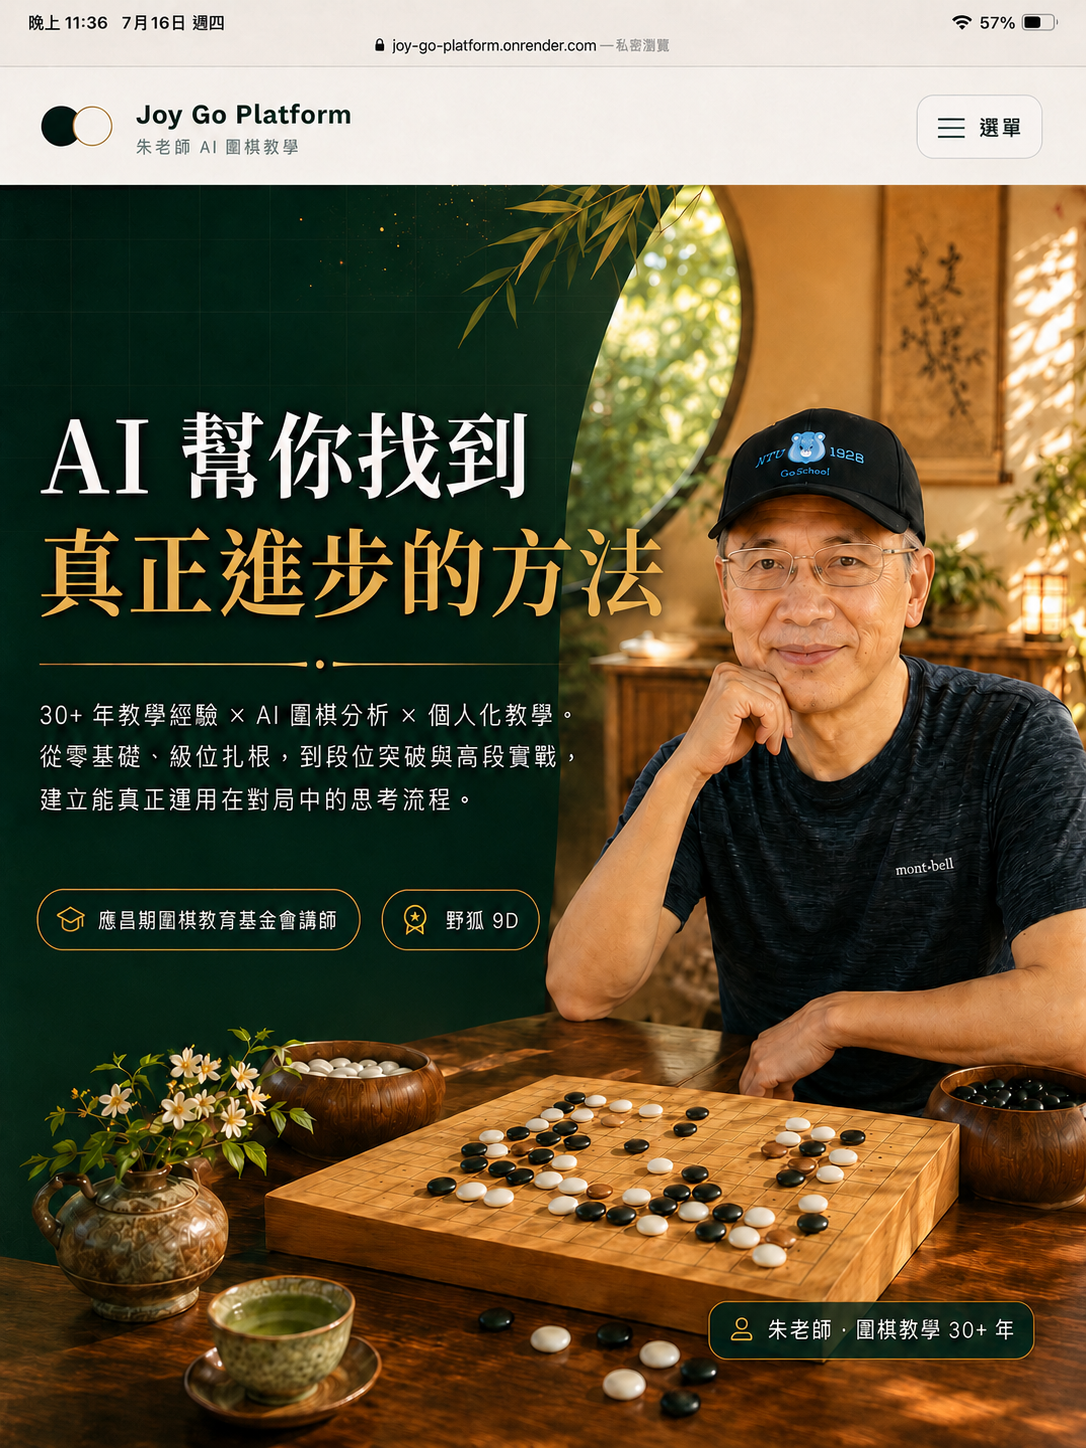
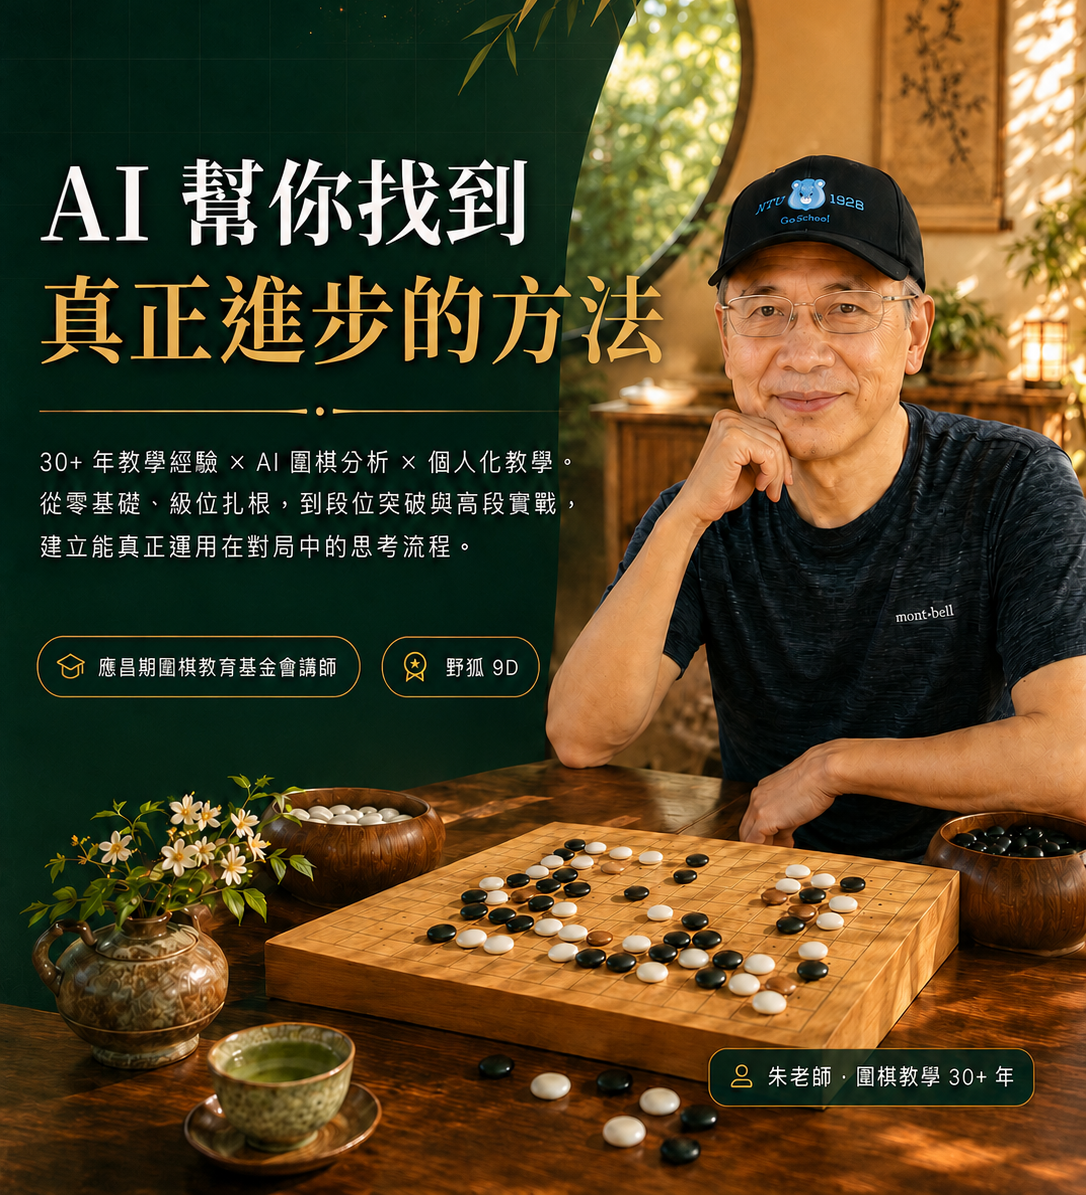
Add files via upload

diff --git a/index.html b/index.html
@@ -9,7 +9,7 @@
   <meta property="og:description" content="30+ 年教學經驗 × AI 圍棋分析 × 個人化教學">
   <meta property="og:image" content="hero-main.png">
   <meta property="og:type" content="website">
-  <title>朱老師 AI 圍棋教學平台｜Joy Go Platform Build 010.6</title>
+  <title>朱老師 AI 圍棋教學平台｜Joy Go Platform Build 010.7</title>
   <link rel="preconnect" href="https://fonts.googleapis.com">
   <link rel="preconnect" href="https://fonts.gstatic.com" crossorigin>
   <link href="https://fonts.googleapis.com/css2?family=Noto+Sans+TC:wght@400;500;700;900&family=Noto+Serif+TC:wght@600;700;900&display=swap" rel="stylesheet">
@@ -34,6 +34,7 @@
         <a href="#courses">課程</a>
         <a href="#events">活動</a>
         <a href="#contact">聯絡</a>
+        <a class="nav-register" href="#register">立即報名</a>
       </nav>
 
       <button id="menuButton" class="menu-button" type="button" aria-label="開啟選單" aria-expanded="false" aria-controls="mobileDrawer">
@@ -61,6 +62,7 @@
       <a href="#courses">課程</a>
       <a href="#events">活動</a>
       <a href="#contact">聯絡</a>
+      <a class="drawer-register" href="#register">立即報名</a>
     </nav>
     <div class="drawer-contact">
       <span>電話洽詢</span>
@@ -214,6 +216,43 @@
       </div>
     </section>
 
+    <section id="register" class="section register-section">
+      <div class="container register-grid">
+        <div>
+          <p class="section-label">REGISTER</p>
+          <h2>課程報名與 LINE 洽詢</h2>
+          <p>填寫簡單資料後，可直接產生報名內容，再用 LINE、簡訊或複製文字傳給朱老師。</p>
+          <div class="register-direct">
+            <a href="tel:0931399910">電話 0931-399-910</a>
+            <a href="sms:0931399910">傳送簡訊</a>
+          </div>
+        </div>
+        <form id="registerForm" class="register-form">
+          <label>姓名<input id="regName" type="text" placeholder="請輸入姓名" required></label>
+          <label>聯絡電話<input id="regPhone" type="tel" inputmode="tel" placeholder="例如：0912-345-678" required></label>
+          <label>目前棋力
+            <select id="regLevel" required>
+              <option value="">請選擇</option>
+              <option>完全初學</option><option>級位</option><option>1～3 段</option><option>4～6 段</option><option>高段</option>
+            </select>
+          </label>
+          <label>課程需求
+            <select id="regCourse" required>
+              <option value="">請選擇</option>
+              <option>初學啟蒙課程</option><option>棋力突破課程</option><option>AI 高段進階指導</option><option>一對一棋力診斷</option><option>棋聚或講座</option>
+            </select>
+          </label>
+          <label class="full">其他需求<textarea id="regNote" rows="4" placeholder="例如：希望週六下午上課"></textarea></label>
+          <div class="register-actions full">
+            <button id="copyRegister" type="button">複製報名內容</button>
+            <a id="lineRegister" href="#">LINE 傳送</a>
+            <a id="smsRegister" href="sms:0931399910">簡訊傳送</a>
+          </div>
+          <p id="registerStatus" class="register-status full" aria-live="polite"></p>
+        </form>
+      </div>
+    </section>
+
     <section id="contact" class="section contact-section">
       <div class="container contact-grid">
         <div>
@@ -230,6 +269,17 @@
       </div>
     </section>
   </main>
+
+  <div class="quick-actions" aria-label="快速聯絡">
+    <a class="quick-phone" href="tel:0931399910">電話</a>
+    <a class="quick-line" href="#register">LINE</a>
+    <a class="quick-register" href="#register">報名</a>
+  </div>
+  <div class="mobile-action-bar">
+    <a href="tel:0931399910">電話</a>
+    <a href="#register">LINE</a>
+    <a href="#register">立即報名</a>
+  </div>
 
   <button id="backToTop" class="back-to-top" type="button" aria-label="回到頁首">↑</button>
 
@@ -249,7 +299,7 @@
       </div>
       <div>
         <span>網站版本</span>
-        <p>Build 010.6</p>
+        <p>Build 010.7</p>
       </div>
     </div>
     <div class="container copyright">© <span id="year"></span> 朱老師 AI 圍棋教學平台</div>

diff --git a/styles.css b/styles.css
@@ -215,3 +215,56 @@ button, input, select, textarea { font: inherit; }
   .teacher-points span { padding: 16px 18px; }
   .back-to-top { right: 16px; bottom: 16px; }
 }
+
+/* Build 010.7 usability restoration */
+.nav-register {
+  padding: 12px 18px;
+  border-radius: 999px;
+  background: var(--green-900);
+  color: #fff;
+}
+.nav-register::after { display: none; }
+.drawer-register { background: var(--green-900) !important; color: #fff; text-align: center; }
+.hero-image-wrap { max-height: none; }
+.hero-image { width: 100%; object-fit: cover; object-position: center top; }
+.register-section { background: linear-gradient(180deg, #f4efe6 0%, #fbfaf7 100%); }
+.register-grid { display: grid; grid-template-columns: .75fr 1.25fr; gap: 34px; align-items: start; }
+.register-grid h2 { margin: 0 0 16px; font-family: "Noto Serif TC", serif; font-size: clamp(2rem,3vw,3rem); }
+.register-grid > div > p { color: #5d6a63; line-height: 1.9; }
+.register-direct { display: grid; gap: 12px; margin-top: 24px; }
+.register-direct a { padding: 16px 18px; border-radius: 16px; background: var(--green-900); color: #fff; font-weight: 800; text-align: center; }
+.register-form { display: grid; grid-template-columns: 1fr 1fr; gap: 18px; background: #fff; border: 1px solid var(--line); border-radius: 26px; padding: 26px; box-shadow: var(--shadow); }
+.register-form label { display: grid; gap: 8px; font-weight: 800; }
+.register-form input,.register-form select,.register-form textarea { width: 100%; border: 1px solid rgba(19,49,40,.16); border-radius: 14px; padding: 14px 15px; background: #fff; color: var(--ink); }
+.register-form .full { grid-column: 1 / -1; }
+.register-actions { display: grid; grid-template-columns: repeat(3,1fr); gap: 12px; }
+.register-actions button,.register-actions a { min-height: 52px; border: 0; border-radius: 15px; display: flex; align-items: center; justify-content: center; font-weight: 900; cursor: pointer; }
+.register-actions button { background: var(--green-900); color: #fff; }
+.register-actions #lineRegister { background: #19c95b; color: #fff; }
+.register-actions #smsRegister { background: var(--gold); color: #fff; }
+.register-status { margin: 0; min-height: 1.5em; color: var(--green-700); font-weight: 700; }
+.quick-actions { position: fixed; right: 18px; bottom: 86px; z-index: 45; display: grid; gap: 10px; }
+.quick-actions a { width: 58px; height: 58px; border-radius: 50%; display: flex; align-items: center; justify-content: center; color: #fff; font-weight: 900; box-shadow: 0 12px 26px rgba(8,30,23,.22); border: 2px solid rgba(255,255,255,.82); }
+.quick-phone { background: var(--green-900); }
+.quick-line { background: #19c95b; }
+.quick-register { background: var(--gold); }
+.mobile-action-bar { display: none; }
+.back-to-top { right: 24px; bottom: 20px; }
+@media (max-width: 1100px) {
+  .register-grid { grid-template-columns: 1fr; }
+}
+@media (max-width: 760px) {
+  body { padding-bottom: 68px; }
+  .hero-section { padding: 12px 0 22px; }
+  .hero-image-wrap { border-radius: 18px; }
+  .hero-image { min-height: 0; }
+  .register-form { grid-template-columns: 1fr; padding: 20px; }
+  .register-form .full { grid-column: auto; }
+  .register-actions { grid-template-columns: 1fr; }
+  .quick-actions { display: none; }
+  .mobile-action-bar { position: fixed; left: 0; right: 0; bottom: 0; z-index: 55; display: grid; grid-template-columns: 1fr 1fr 1.25fr; background: rgba(255,255,255,.96); border-top: 1px solid rgba(19,49,40,.12); box-shadow: 0 -8px 26px rgba(8,30,23,.12); padding: 8px max(10px, env(safe-area-inset-right)) calc(8px + env(safe-area-inset-bottom)) max(10px, env(safe-area-inset-left)); gap: 8px; }
+  .mobile-action-bar a { min-height: 46px; border-radius: 14px; display: flex; align-items: center; justify-content: center; font-weight: 900; color: #fff; background: var(--green-900); }
+  .mobile-action-bar a:nth-child(2) { background: #19c95b; }
+  .mobile-action-bar a:nth-child(3) { background: var(--gold); }
+  .back-to-top { bottom: 82px; }
+}

diff --git a/script.js b/script.js
@@ -68,3 +68,50 @@ shareButton?.addEventListener('click', async () => {
     console.log(error);
   }
 });
+
+// Build 010.7 registration and LINE sharing
+const registerForm = document.getElementById('registerForm');
+const copyRegister = document.getElementById('copyRegister');
+const lineRegister = document.getElementById('lineRegister');
+const smsRegister = document.getElementById('smsRegister');
+const registerStatus = document.getElementById('registerStatus');
+
+function buildRegisterMessage() {
+  const name = document.getElementById('regName')?.value.trim() || '';
+  const phone = document.getElementById('regPhone')?.value.trim() || '';
+  const level = document.getElementById('regLevel')?.value || '';
+  const course = document.getElementById('regCourse')?.value || '';
+  const note = document.getElementById('regNote')?.value.trim() || '無';
+  return `朱老師您好，我想洽詢圍棋課程。\n姓名：${name}\n電話：${phone}\n目前棋力：${level}\n課程需求：${course}\n其他需求：${note}`;
+}
+
+function validateRegister() {
+  if (!registerForm?.reportValidity()) return false;
+  return true;
+}
+
+copyRegister?.addEventListener('click', async () => {
+  if (!validateRegister()) return;
+  const text = buildRegisterMessage();
+  try {
+    await navigator.clipboard.writeText(text);
+    registerStatus.textContent = '報名內容已複製，可貼到 LINE 傳給朱老師。';
+  } catch {
+    registerStatus.textContent = text;
+  }
+});
+
+lineRegister?.addEventListener('click', (event) => {
+  event.preventDefault();
+  if (!validateRegister()) return;
+  const text = encodeURIComponent(buildRegisterMessage());
+  window.location.href = `https://line.me/R/msg/text/?${text}`;
+});
+
+smsRegister?.addEventListener('click', (event) => {
+  if (!validateRegister()) {
+    event.preventDefault();
+    return;
+  }
+  smsRegister.href = `sms:0931399910&body=${encodeURIComponent(buildRegisterMessage())}`;
+});

diff --git a/README.md b/README.md
@@ -1,21 +1,9 @@
-# Joy Go Platform Build 010.6
+# Joy Go Platform Build 010.7
 
-本版本重點：
-
-- 套用使用者確認的首頁主視覺 `hero-main.png`
-- 刪除首頁主圖中的「預約體驗課程」「查看課程內容」按鈕區塊
-- 保留人物不變
-- 將「應昌期圍棋教育基金會講師」「野狐 9D」保留在較上方位置
-- 刪除「兒童・成人皆可」
-- 新增乾淨版首頁配置與可用的行動版選單
-
-## 檔案
-
-- `index.html`：首頁主頁
-- `styles.css`：樣式
-- `script.js`：選單、分享、回到頁首互動
-- `hero-main.png`：首頁主視覺
-
-## 部署方式
-
-將本資料夾全部檔案上傳到 GitHub repo 根目錄，或直接部署到 Render static site。
+修正內容：
+- 恢復右側「電話／LINE／報名」快速按鈕
+- 手機與 iPad 底部固定顯示快速操作列
+- 恢復「立即報名」導覽功能
+- 新增完整報名表，可複製、LINE 或簡訊傳送
+- 修正首頁主圖：裁掉圖片內重複的 Safari 與網站標頭，避免首頁看起來像畫面套畫面
+- 保留 Build 010.6 的課程、活動、教學特色與聯絡內容
